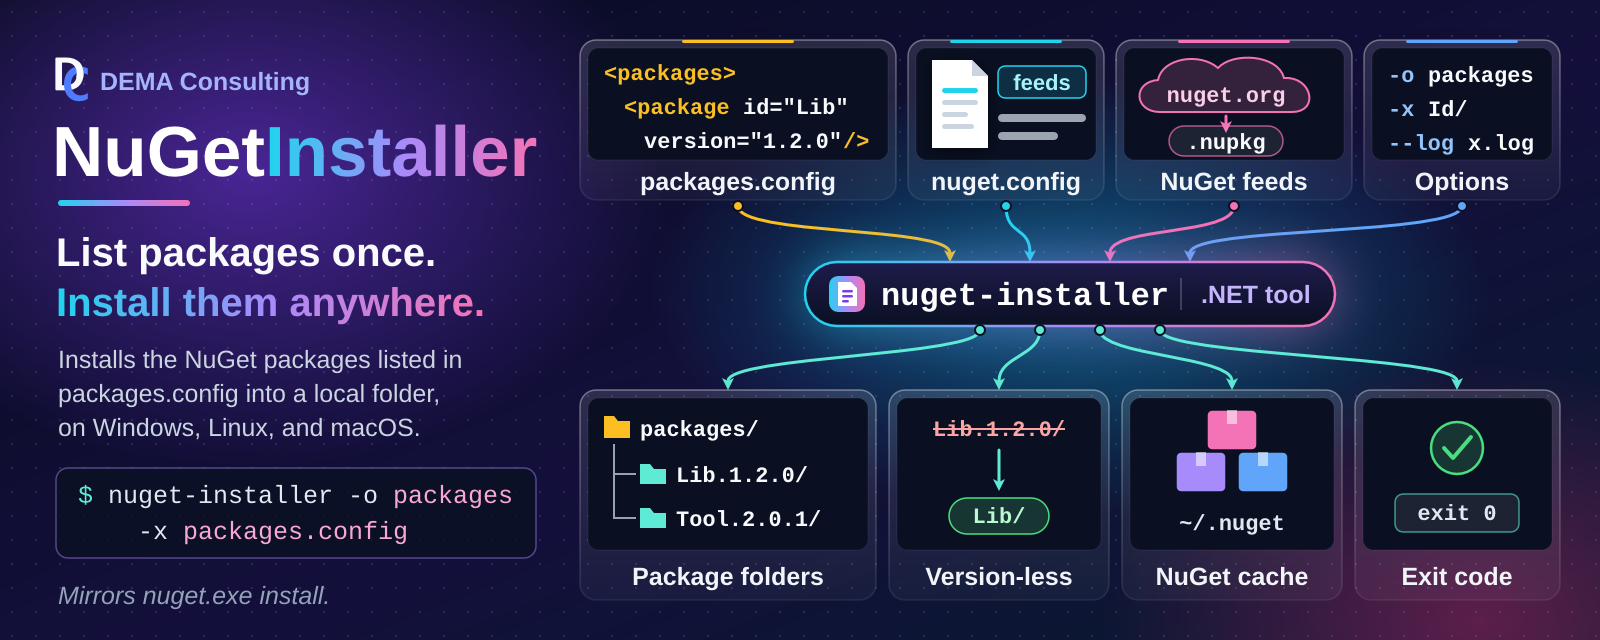
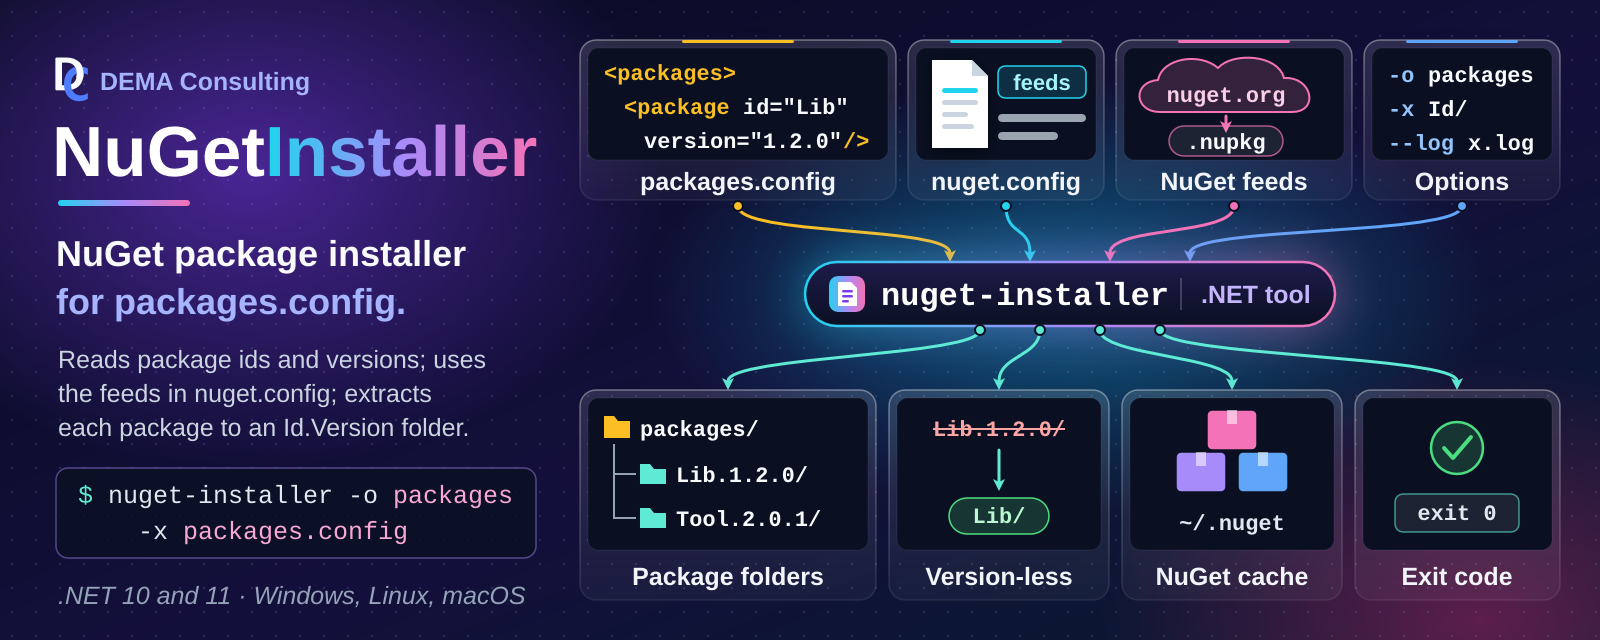
Sync agents/template and calm the README hero (#82)
* Sync agents, skills, and standards with Agents main

Brings orchestrator (Pull Requests), planning (Feasibility and Delivery), sysml2tools-query and sysml2-modeling (one uniquely named package per file) up to date, and adds the AGENTS.md Project Scripts section (build/lint/fix.ps1 no longer protected).

* Sync template: yamlfix comment setting and script CUSTOMIZATION headers

Template #61: comments_require_starting_space = false. Template #63: CUSTOMIZATION headers replace the MODIFICATION POLICY text in build/lint/fix.ps1 (comments only).

* Calm the README hero and make it the H1

Plain tagline 'NuGet package installer / for packages.config.' in solid colors, factual body and footnote, gradient only on the second wordmark word and underline. The hero is now the README H1 with the badges under it; removed a duplicated background block in hero.svg.

* Record the legacy SysML2 package layout as a standards exception

---------

Changed region(s): [[0.0312, 0.5312, 0.3125, 0.6875], [0.0312, 0.375, 0.3125, 0.5], [0.0312, 0.9062, 0.3438, 0.9688]]

diff --git a/.github/standards/sysml2-modeling.md b/.github/standards/sysml2-modeling.md
@@ -31,15 +31,15 @@ docs/sysml2/
 ├── common/
 │   └── software-items.sysml           # shared SoftwareItemMetadata::SoftwareInfo metadata def
 ├── model/
-│   ├── {system-name}.sysml            # system-level part def only (no subsystems/units inline)
+│   ├── {system-name}.sysml            # package {SystemName}; system-level part def only (no subsystems/units inline)
 │   ├── {system-name}/
-│   │   ├── {subsystem-name}.sysml     # subsystem part def; nests further for sub-subsystems
+│   │   ├── {subsystem-name}.sysml     # package {SystemName}_{SubsystemName}Subsystem; nests further for sub-subsystems
 │   │   └── {subsystem-name}/
-│   │       └── {unit-name}.sysml      # one file per unit
-│   ├── ots.sysml                      # OTS dependency parts (optional; if OTS items exist)
-│   └── shared.sysml                   # Shared Package parts (optional; if Shared Packages exist)
+│   │       └── {unit-name}.sysml      # package {SystemName}_{UnitName}; one file per unit
+│   ├── ots.sysml                      # package OtsDependencies: OTS parts (optional; if OTS items exist)
+│   └── shared.sysml                   # package SharedPackages: Shared Package parts (optional; if Shared Packages exist)
 └── views/
-    └── design-views.sysml             # named view usages rendered for the design document
+    └── design-views.sysml             # package {RepoName}DesignViews; named view usages rendered for the design document
 ```
 
 `docs/sysml2/common/software-items.sysml` defines the `SoftwareItemMetadata::SoftwareInfo`
@@ -62,14 +62,42 @@ so no single alias name would generalize. Agents discover the system(s) present 
 `docs/sysml2/**/*.sysml`, not by assuming a fixed name.
 
 Always pass the full set of `.sysml` files (or an equivalent glob) to every `sysml2tools`
-invocation — the model spans multiple files and cross-references between them; files sharing
-the same `package Name { ... }` merge into one namespace automatically with no `import`
-required, as long as all files are passed together. As of `sysml2tools` 0.1.0-beta.5,
+invocation — the model spans multiple files and cross-references between them, and a
+reference only resolves when the file declaring its target is loaded (see Package Structure
+below for how files reference each other). As of `sysml2tools` 0.1.0-beta.5,
 `lint` and `render` both expand `*`/`**` glob patterns internally (recursing correctly into
 subdirectories), so pass a single **quoted** glob string (e.g. `'docs/sysml2/**/*.sysml'`)
 and let the tool resolve it — do not rely on the shell to expand it, and do not quote-strip
 the pattern before it reaches the tool. Quoting keeps the behavior identical across
 PowerShell and bash, since neither shell needs to (or reliably does) expand `**` itself.
+
+## Package Structure
+
+SysML v2 has no package merging: each file is its own root namespace, and two root packages
+with the same name are duplicate members of the global namespace (the OMG Pilot
+Implementation reports "Duplicate of other owned member name" for each, and references across
+the halves do not resolve). A model that only loads because a tool is lenient is not portable,
+so:
+
+- Each `.sysml` file declares **exactly one uniquely named package**, and a package is never
+  declared (or "reopened") in more than one file.
+- Name each package from its place in the hierarchy, joined with an underscore:
+  `{SystemName}` for the system file, `{SystemName}_{SubsystemName}Subsystem` for a subsystem
+  (including a nested sub-subsystem, which is not prefixed with its parent subsystem), and
+  `{SystemName}_{UnitName}` for a unit. The system prefix keeps names unique across systems.
+  The shared files use `OtsDependencies` and `SharedPackages`, and the single views file uses
+  one repository-level package, `{RepoName}DesignViews` (not one per system).
+- Package names must be unique **repository-wide**. The short forms above are the default;
+  when one would collide (two `Storage` subsystems in different branches, or two units named
+  `Cache` in different subsystems), qualify it with the owning subsystem path, for example
+  `{SystemName}_{SubsystemName}_{UnitName}` (`Acme_Ingest_Cache` and `Acme_Query_Cache`).
+- Reference other files with an explicit `private import {PackageName}::*;` (a system or
+  subsystem file imports the package of each direct member so its `part` usages resolve; every
+  file that applies `SoftwareInfo` imports `SoftwareItemMetadata::*`).
+- Where an import would form a cycle (for example a unit that depends on a package that
+  already imports it), or for a one-off reference into another system, use the qualified name
+  instead, e.g. `dependency {UnitName} to {SystemName}_{OtherUnit}::{OtherUnit};`.
+  Import cycles raise a lint warning; qualified references do not.
 
 ## Model Content
 
@@ -174,11 +202,13 @@ Views control what gets rendered into diagrams for the design document. Use name
 **usages** (not `view def` **definitions**) — `expose` is only valid inside a usage:
 
 ```sysml
-package {SystemName} {
+package {RepoName}DesignViews {
     private import StandardViewDefinitions::*;
+    private import {SystemName}::*;
+    private import {SystemName}_{SubsystemName}Subsystem::*;
 
     view SoftwareStructureView : InterconnectionView {
-        expose {SystemName}::**;     // all members, recursively: system + subsystems + units
+        expose {SystemName}::{SystemName}System::**;  // system part def, recursively: subsystems + units
     }
 
     view {SystemName}View {
@@ -186,10 +216,12 @@ package {SystemName} {
     }
 
     view {SubsystemName}View {
-        expose {SubsystemName};      // one subsystem def only
+        expose {SubsystemName}Subsystem;      // one subsystem def only
     }
 }
 ```
+
+Views import (or qualify) every package whose members they expose, like any other file.
 
 Type `SoftwareStructureView` by a standard view definition from the SysML v2 Views library
 (`GeneralView`, `InterconnectionView`, ...; requires `sysml2tools` 0.3.0-beta.3+). The view
@@ -223,25 +255,27 @@ There is no dedicated `DependencyView`/`{SubsystemName}DependencyView` diagram c
 above), not rendered.
 
 When a repository has multiple systems, type `SoftwareStructureView` by `GeneralView`,
-expose each system package's members, and filter out documentation so the overview stays
-readable — the general view draws one package frame per system, while an interconnection
-view places all systems in a single row:
+expose each system's part def (and each subsystem's, by qualified name), and filter out
+documentation so the overview stays readable — the general view draws one package frame per
+system, while an interconnection view places all systems in a single row:
 
 ```sysml
 package {RepoName}DesignViews {
     private import StandardViewDefinitions::*;
 
     view SoftwareStructureView : GeneralView {
-        expose {SystemNameA}::**;
-        expose {SystemNameB}::**;
-        filter not @SysML::Documentation;
+        expose {SystemNameA}::{SystemNameA}System;
+        expose {SystemNameA}_{SubsystemName}Subsystem::{SubsystemName}Subsystem;
+        expose {SystemNameB}::{SystemNameB}System;
+        filter not (@SysML::Documentation);
     }
 }
 ```
 
 Documentation (`doc`) is exposed with its owner and drawn as a `doc` compartment unless a
-view filters it out; use `filter not @SysML::Documentation;` wherever doc text would clutter
-a diagram.
+view filters it out; use `filter not (@SysML::Documentation);` wherever doc text would clutter
+a diagram. The parentheses are required: the SysML v2 grammar does not accept the unparenthesized
+`filter not @SysML::Documentation;`.
 
 ## Diagram Embedding
 
@@ -313,6 +347,9 @@ sync.
   `sourceFiles`; the purpose statement appears only in the `doc` comment, never in `SoftwareInfo`
 - [ ] `docs/sysml2/views/design-views.sysml` uses `view Name { expose ...; }` usages, not
   `view def` definitions
+- [ ] Each `.sysml` file declares exactly one uniquely named package (never the same package
+  in two files), named per Package Structure, and references other files through
+  `private import` or qualified names (qualified where an import would form a cycle)
 - [ ] View names follow the `SoftwareStructureView` / `{SystemName}View` /
   `{SubsystemName}View` convention (no dedicated `DependencyView`)
 - [ ] Each Unit's real collaborators are captured as `dependency A to B;` statements, and each

diff --git a/AGENTS.md b/AGENTS.md
@@ -79,10 +79,10 @@ from `.github/standards/`. Use this matrix to determine which to load:
 - **Requirements**: `requirements-principles.md`, `software-items.md`, `reqstream-usage.md`
 - **Design docs**: `software-items.md`, `design-documentation.md`, `technical-documentation.md`
 - **Verification docs**: `software-items.md`, `verification-documentation.md`, `technical-documentation.md`
-- **Diagrams in documentation**: `diagram-documentation.md` (and the `canvasnet` skill for tooling)
 - **Review configuration**: `software-items.md`, `reviewmark-usage.md`
 - **Software structure**: `sysml2-modeling.md`
 - **Any documentation**: `technical-documentation.md`
+- **Diagrams in documentation**: `diagram-documentation.md` (and the `canvasnet` skill for tooling)
 - **Reading PDF or Office documents**: the `docdown` skill
 
 Load only the standards relevant to your specific task scope.
@@ -159,10 +159,30 @@ requires it and the modification preserves the documented design intent:
 
 - `.reviewmark.yaml`, `.textlint.yaml`, `.editorconfig`
 - `.lintmark.yaml`, `.yamllint.yaml`
-- `requirements.yaml`, `fix.ps1`, `lint.ps1`
+- `requirements.yaml`
+
+# Project Scripts
+
+`build.ps1`, `lint.ps1`, and `fix.ps1` belong to the project: extend them as it grows. Add project-specific
+steps, update tool versions, and add optional parameters that focus a run (for example one library in a
+multi-library repository, or headless tests without GUI automation). Two rules keep them trustworthy:
+
+- Run with no arguments, each script still does its full job (CI and the agents rely on that); slow or
+  environment-dependent test tiers may be opt-in switches of `build.ps1`.
+- Never remove or weaken a check to make lint or tests pass.
 
 # Continuous Compliance Overview
 
 This repository follows the [Continuous Compliance](https://github.com/demaconsulting/ContinuousCompliance)
 approach. Tools: **ReqStream** (requirements traceability), **ReviewMark** (file review enforcement),
 **BuildMark** (tool versions), **VersionMark** (version tracking).
+
+# Repository-Specific Standards Exceptions
+
+## SysML2 package structure (legacy layout, migration pending)
+
+The model under `docs/sysml2/` still uses the earlier layout: `package NuGetInstaller` is reopened in 14 files under
+`model/` and in `views/design-views.sysml` (no `NuGetInstallerDesignViews` package; there are no OTS or shared package
+files). The Package Structure rules in `sysml2-modeling.md` and the matching qualified-name examples in the
+`sysml2tools-query` skill apply once the model is migrated in a dedicated PR; until then, query and extend the model
+using the existing package names and do not partially restructure it.

diff --git a/.github/skills/sysml2tools-query/SKILL.md b/.github/skills/sysml2tools-query/SKILL.md
@@ -21,11 +21,15 @@ dotnet tool restore
 ## Model files
 
 - `docs/sysml2/model/{system-name}.sysml` — system-level `part def` only (no subsystems/units
-  inline). A repository may contain more than one system.
+  inline), in package `{SystemName}`. A repository may contain more than one system.
 - `docs/sysml2/model/{system-name}/{subsystem-name}.sysml` and
   `docs/sysml2/model/{system-name}/{subsystem-name}/{unit-name}.sysml` — one file per
   Subsystem/Unit, nested to mirror the same folder depth as that item's companion
-  `docs/design/`, `docs/reqstream/`, and `docs/verification/` files.
+  `docs/design/`, `docs/reqstream/`, and `docs/verification/` files. Each declares its own
+  uniquely named package; by default `{SystemName}_{SubsystemName}Subsystem` or
+  `{SystemName}_{UnitName}`, qualified with the subsystem path
+  (`{SystemName}_{SubsystemName}_{UnitName}`) when the short name would collide. An element's
+  qualified name is e.g. `{SystemName}_{UnitName}::{UnitName}`.
 - `docs/sysml2/model/ots.sysml` — off-the-shelf (OTS) dependency parts (present when OTS items
   exist).
 - `docs/sysml2/model/shared.sysml` — Shared Package parts (present when Shared Package items
@@ -35,9 +39,10 @@ dotnet tool restore
   useful to see how diagrams are scoped.
 
 Always pass all `.sysml` files (or a glob covering them) to every `sysml2tools`
-invocation — the model spans multiple files and cross-references between them; files that
-reopen the same `package Name { ... }` from different files merge into one namespace
-automatically, no `import` required. As of `sysml2tools` 0.1.0-beta.5, every subcommand
+invocation — the model spans multiple files and cross-references between them (each file
+declares one uniquely named package and references others through `import` or qualified
+names; same-named packages in different files are not merged), so every file a reference
+points at must be loaded. As of `sysml2tools` 0.1.0-beta.5, every subcommand
 (`lint`, `render`, `query`) expands `*`/`**` glob patterns internally and recurses
 correctly — pass a single **quoted** glob string and let the tool resolve it, rather than
 relying on the shell (quoting works identically in both PowerShell and bash):
@@ -57,7 +62,7 @@ summary line, so one query gets you every artifact location for that item withou
 the source tree:
 
 ```pwsh
-dotnet sysml2tools query describe -e {SystemName}::{UnitName} 'docs/sysml2/**/*.sysml'
+dotnet sysml2tools query describe -e {SystemName}_{UnitName}::{UnitName} 'docs/sysml2/**/*.sysml'
 ```
 
 ```text

diff --git a/README.md b/README.md
@@ -1,4 +1,4 @@
-# NuGet Installer
+# ![NuGet Installer: NuGet package installer for packages.config. Reads package ids and versions; uses the feeds in nuget.config; extracts each package to an Id.Version folder. Shown with the command 'nuget-installer -o packages -x packages.config' and the note '.NET 10 and 11, Windows, Linux, macOS'. A packages.config listing packages by id and version, a nuget.config naming the package feeds, NuGet feeds such as nuget.org serving .nupkg files, and the -o, -x, and --log options flow into the nuget-installer .NET tool, and arrows lead out to extracted package folders named Id.Version, version-less Id folders with -x, the populated NuGet global packages cache, and a pass/fail exit code][hero]
 
 [![GitHub forks][badge-forks]][link-forks]
 [![GitHub stars][badge-stars]][link-stars]
@@ -8,13 +8,6 @@
 [![Quality Gate][badge-quality]][link-quality]
 [![Security][badge-security]][link-security]
 [![NuGet][badge-nuget]][link-nuget]
-
-![NuGet Installer banner: the NuGetInstaller name with the tagline 'List packages once. Install them anywhere.' and
-the command nuget-installer -o packages -x packages.config. A packages.config listing packages by id and version, a
-nuget.config naming the package feeds, NuGet feeds such as nuget.org serving .nupkg files, and the -o, -x, and --log
-options flow on curved arrows into the nuget-installer .NET tool, and arrows lead out to extracted package folders
-named Id.Version, version-less Id folders with -x, the populated NuGet global packages cache, and a pass/fail exit
-code][hero]
 
 NuGet Installer is a cross-platform .NET tool that installs NuGet packages listed in a
 `packages.config` file into a local output directory, mirroring the behavior of `nuget.exe install`.

diff --git a/.github/agents/orchestrator.agent.md b/.github/agents/orchestrator.agent.md
@@ -48,3 +48,16 @@ briefly, what you loaded.
   let the user answer in their own words. Do not batch decisions into structured question forms (such as an
   `ask_user` tool); they strip away the context the user needs to decide and turn the session into a
   questionnaire.
+
+# Pull Requests (MANDATORY)
+
+Aim for pull requests that each merge one complete, useful change that could be cherry-picked on its own.
+
+- Before starting work that could span more than one pull request, propose the grouping and let the user
+  decide. The user may split it, or combine several small requests into one pull request.
+- When splitting, split by behavior, not by layer or file type: each part carries its own code, tests,
+  requirements, and docs, builds and passes alone, and leaves no stubs or dead code for a later part.
+- Deliver parts in order: start the next part from main only after the previous one merges.
+- Review fixes, lint fixes, and follow-ups go into the open pull request they belong to, not a new one.
+- Sub-agents work on the agreed branch and do not open pull requests; you decide when it is complete.
+- Keep mechanical churn (formatting, renames, generated files) in its own commit so reviewers can skip it.

diff --git a/.github/agents/planning.agent.md b/.github/agents/planning.agent.md
@@ -52,10 +52,13 @@ Repeat up to 2 more times, stopping when the plan is stable.
 
 List up to 5 risks with a brief mitigation for each.
 
-## Step 6 — Feasibility Assessment
+## Step 6 — Feasibility and Delivery
 
 State whether this can be implemented in a single development pass and any
-preconditions that affect feasibility.
+preconditions that affect feasibility. Propose how the work groups into pull
+requests: one complete, useful change per pull request where possible; if it
+should be split, list ordered parts that are split by behavior (not by layer or
+file type) and each build, pass, and deliver something on their own.
 
 ## Step 7 — Recommendation
 
@@ -108,9 +111,12 @@ Then respond to the caller with ONLY the lean structured summary below.
 
 1. **[severity]** {risk} — {mitigation}
 
-## Feasibility Assessment
+## Feasibility and Delivery
 
 {Single-pass or not, and why. Any preconditions.}
+
+{Proposed pull-request grouping: one pull request, or ordered parts split by behavior,
+each with what it delivers on its own.}
 
 ## Unknowns
 
